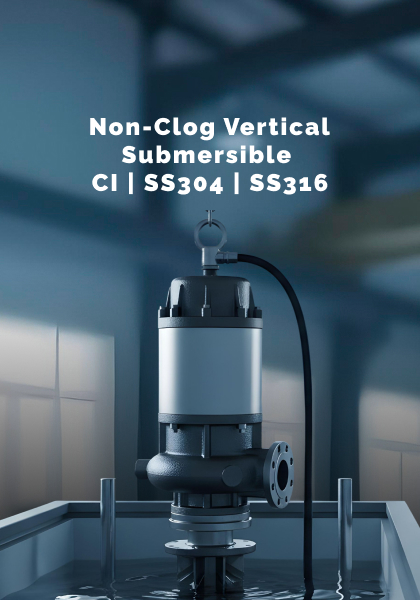
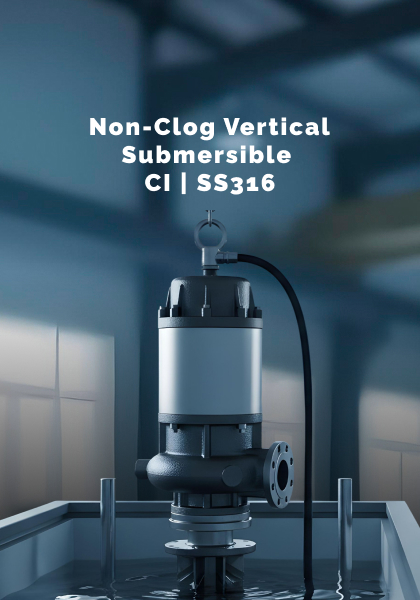
products ss316 removed

Changed region(s): [[0.3095, 0.27, 0.7738, 0.33], [0.2167, 0.27, 0.2786, 0.33]]

diff --git a/Chemical-CI.html b/Chemical-CI.html
@@ -3,7 +3,7 @@
   <head>
     <meta charset="UTF-8" />
     <meta name="viewport" content="width=device-width, initial-scale=1.0" />
-    <title>Chemical CI, WCB (CS) & SS304 (CF8) & SS316 (CF8M)Process Pumps</title>
+    <title>Chemical CI, WCB (CS) & SS316 (CF8M)Process Pumps</title>
     <link rel="icon" href="Images/Group.svg" />
     <link rel="stylesheet" href="style.css" />
     <link
@@ -425,7 +425,7 @@
         <div class="row">
           <div class="col-12 col-lg-6">
             <h2 class="fw-semibold text-uppercase">
-              Chemical SS304 (CF8) <br />
+              Chemical SS316 (CF8M) <br />
               PUMP DESCRIPTION
             </h2>
             <hr class="underline-products" />

diff --git a/FDA-Centrifugal.html b/FDA-Centrifugal.html
@@ -3,7 +3,7 @@
   <head>
     <meta charset="UTF-8" />
     <meta name="viewport" content="width=device-width, initial-scale=1.0" />
-    <title>FDA – Centrifugal Sanitary Pumps in SS304 (CF8) & SS316 (CF8M)</title>
+    <title>FDA – Centrifugal Sanitary Pumps in SS316 (CF8M)</title>
     <link rel="icon" href="Images/Group.svg" />
     <link rel="stylesheet" href="style.css" />
     <link
@@ -631,7 +631,7 @@
                 aria-labelledby="moc-tab"
               >
                 <div class="bullet-list">
-                  <p>SS304 OR SS316</p>
+                  <p> SS316</p>
                 
                 </div>
                 <div>

diff --git a/Horizontal-Vertical-Multistage.html b/Horizontal-Vertical-Multistage.html
@@ -3,7 +3,7 @@
   <head>
     <meta charset="UTF-8" />
     <meta name="viewport" content="width=device-width, initial-scale=1.0" />
-    <title>Horizontal & Vertical Multistage Pumps in CI, SS304 (CF8) & SS316 (CF8M)</title>
+    <title>Horizontal & Vertical Multistage Pumps in CI & SS316 (CF8M)</title>
     <link rel="icon" href="Images/Group.svg" />
     <link rel="stylesheet" href="style.css" />
     <link
@@ -650,7 +650,7 @@
               >
                 <div class="bullet-list">
                   <p>Cast Iron</p>
-                  <p>SS304</p>
+                  
                   <p>SS316</p>
                 
                 </div>

diff --git a/Non-Clog-Vertical-Submersible-Pumps.html b/Non-Clog-Vertical-Submersible-Pumps.html
@@ -3,7 +3,7 @@
   <head>
     <meta charset="UTF-8" />
     <meta name="viewport" content="width=device-width, initial-scale=1.0" />
-    <title>Non-Clog Vertical Submersible Pumps in CI, SS304 (CF8) & SS316 (CF8M)</title>
+    <title>Non-Clog Vertical Submersible Pumps in CI & SS316 (CF8M)</title>
     <link rel="icon" href="Images/Group.svg" />
     <link rel="stylesheet" href="style.css" />
     <link
@@ -616,7 +616,7 @@
               >
                 <div class="bullet-list">
                   <p>CI</p>
-                  <p>SS304</p>
+                  
                   <p>SS316</p>
                   
                 </div>

diff --git a/Non-Clog-Horizontal-Self-Priming-Pumps.html b/Non-Clog-Horizontal-Self-Priming-Pumps.html
@@ -3,7 +3,7 @@
   <head>
     <meta charset="UTF-8" />
     <meta name="viewport" content="width=device-width, initial-scale=1.0" />
-    <title>Non-Clog Horizontal Self Priming Pumps in CI, SS304 (CF8) & SS316 (CF8M) and Alloys</title>
+    <title>Non-Clog Horizontal Self Priming Pumps in CI & SS316 (CF8M) and Alloys</title>
     <link rel="icon" href="Images/Group.svg" />
     <link rel="stylesheet" href="style.css" />
     <link

diff --git a/Chemical-SS304.html b/Chemical-SS304.html
@@ -3,7 +3,7 @@
   <head>
     <meta charset="UTF-8" />
     <meta name="viewport" content="width=device-width, initial-scale=1.0" />
-    <title>Chemical SS304 (CF8) & SS316 (CF8M) Magnetic Drive Pumps</title>
+    <title>Chemical SS316 (CF8M) Magnetic Drive Pumps</title>
     <link rel="icon" href="Images/Group.svg" />
     <link rel="stylesheet" href="style.css" />
     <link

diff --git a/Internal-Gear-Pump.html b/Internal-Gear-Pump.html
@@ -3,7 +3,7 @@
   <head>
     <meta charset="UTF-8" />
     <meta name="viewport" content="width=device-width, initial-scale=1.0" />
-    <title>Internal Gear Pump in CI, SS304 (CF8) & SS316 (CF8M)</title>
+    <title>Internal Gear Pump in CI & SS316 (CF8M)</title>
     <link rel="icon" href="Images/Group.svg" />
     <link rel="stylesheet" href="style.css" />
     <link

diff --git a/Rotary-Lobe-Pumps.html b/Rotary-Lobe-Pumps.html
@@ -3,7 +3,7 @@
   <head>
     <meta charset="UTF-8" />
     <meta name="viewport" content="width=device-width, initial-scale=1.0" />
-    <title>Rotary Lobe Pumps in CI, SS304 (CF8) & SS316 (CF8M)</title>
+    <title>Rotary Lobe Pumps in CI & SS316 (CF8M)</title>
     <link rel="icon" href="Images/Group.svg" />
     <link rel="stylesheet" href="style.css" />
     <link

diff --git a/Screw-Pumps.html b/Screw-Pumps.html
@@ -3,7 +3,7 @@
   <head>
     <meta charset="UTF-8" />
     <meta name="viewport" content="width=device-width, initial-scale=1.0" />
-    <title>Screw Pumps in CI, SS304 (CF8) & SS316 (CF8M)</title>
+    <title>Screw Pumps in CI & SS316 (CF8M)</title>
     <link rel="icon" href="Images/Group.svg" />
     <link rel="stylesheet" href="style.css" />
     <link
